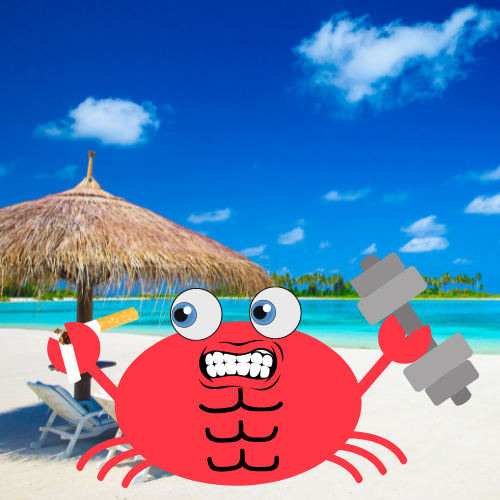
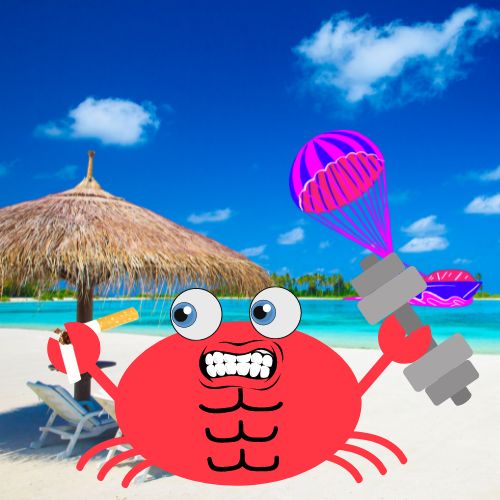
updated assets and implemented timer, enaenabled mint functionality onClick

Changed region(s): [[0.57, 0.24, 0.81, 0.51], [0.81, 0.54, 0.96, 0.63], [0.69, 0.57, 0.72, 0.6]]

diff --git a/app/src/CandyMachine/index.js b/app/src/CandyMachine/index.js
@@ -1,9 +1,10 @@
-import React from 'react';
+import React, { useEffect, useState } from 'react';
 import { Connection, PublicKey } from '@solana/web3.js';
 import { Program, Provider, web3 } from '@project-serum/anchor';
 import { MintLayout, TOKEN_PROGRAM_ID, Token } from '@solana/spl-token';
 import { sendTransactions } from './connection';
 import './CandyMachine.css';
+import CountdownTimer  from '../CountdownTimer'
 import {
   candyMachineProgram,
   TOKEN_METADATA_PROGRAM_ID,
@@ -20,6 +21,100 @@ const opts = {
 };
 
 const CandyMachine = ({ walletAddress }) => {
+  const [candyMachine, setCandyMachine] = useState(null);
+  useEffect(() => {
+    getCandyMachineState();
+  });
+  
+
+  const getProvider = () => {
+    const rpcHost = process.env.REACT_APP_SOLANA_RPC_HOST;
+    // Create a new connection object
+    const connection = new Connection(rpcHost);
+  
+    // Create a new Solana provider object
+    const provider = new Provider(
+      connection,
+      window.solana,
+      opts.preflightCommitment
+    );
+  
+    return provider;
+  };
+  
+  const getCandyMachineState = async () => {
+    const provider = getProvider();
+  
+    // Get metadata about deployed candy machine program
+    const idl = await Program.fetchIdl(candyMachineProgram, provider);  
+  
+    // Create a program that you can call
+    const program = new Program(idl, candyMachineProgram, provider);
+  
+    // Fetch the metadata from your candy machine
+    const candyMachine = await program.account.candyMachine.fetch(
+      process.env.REACT_APP_CANDY_MACHINE_ID
+    );
+  
+    // Parse out all our metadata and log it out
+    const itemsAvailable = candyMachine.data.itemsAvailable.toNumber();
+    const itemsRedeemed = candyMachine.itemsRedeemed.toNumber();
+    const itemsRemaining = itemsAvailable - itemsRedeemed;
+    const goLiveData = candyMachine.data.goLiveDate.toNumber();
+    const presale = 
+      candyMachine.data.whitelistMintSettings &&
+      candyMachine.data.whitelistMintSettings.presale &&
+      (!candyMachine.data.goLiveDate ||
+        candyMachine.data.goLiveDate.toNumber() > new Date().getTime() / 1000);
+  
+    // fix later
+    const goLiveDateTimeString = `${new Date(
+      goLiveData * 1000
+    ).toLocaleDateString()} @ ${new Date(
+      goLiveData * 1000
+    ).toLocaleTimeString()}`
+      
+    // Add this data to your state to render
+    setCandyMachine({
+      id: process.env.REACT_APP_CANDY_MACHINE_ID,
+      program,
+      state: {
+        itemsAvailable,
+        itemsRedeemed,
+        itemsRemaining,
+        goLiveData,
+        goLiveDateTimeString,
+        isSoldOut: itemsRemaining === 0,
+        isActive:
+          (presale ||
+            candyMachine.data.goLiveDate.toNumber() < new Date().getTime() / 1000) &&
+          (candyMachine.endSettings
+            ? candyMachine.endSettings.endSettingType.date
+              ? candyMachine.endSettings.number.toNumber() > new Date().getTime() / 1000
+              : itemsRedeemed < candyMachine.endSettings.number.toNumber()
+            : true),
+        isPresale: presale,
+        goLiveDate: candyMachine.data.goLiveDate,
+        treasury: candyMachine.wallet,
+        tokenMint: candyMachine.tokenMint,
+        gatekeeper: candyMachine.data.gatekeeper,
+        endSettings: candyMachine.data.endSettings,
+        whitelistMintSettings: candyMachine.data.whitelistMintSettings,
+        hiddenSettings: candyMachine.data.hiddenSettings,
+        price: candyMachine.data.price,
+      },
+    });
+
+    // console.log({
+    //   itemsAvailable,
+    //   itemsRedeemed,
+    //   itemsRemaining,
+    //   goLiveData,
+    //   goLiveDateTimeString,
+    //   presale,
+    //   mintToken
+    // });
+  };
 
   const getCandyMachineCreator = async (candyMachine) => {
     const candyMachineID = new PublicKey(candyMachine);
@@ -297,14 +392,35 @@ const CandyMachine = ({ walletAddress }) => {
     return [];
   };
 
+  const renderDropTimer = () => {
+    const currentDate = new Date();
+    const dropDate = new Date(candyMachine.state.goLiveData * 1000);
+
+    if (currentDate < dropDate) {
+      console.log('Before drop date!');
+      return <CountdownTimer dropDate={dropDate} />;
+    }
+    return <p>{`Drop Date: ${candyMachine.state.goLiveDateTimeString}`}</p>;
+  };
+
   return (
+  // Only show this if machineStats is available
+  candyMachine && (
     <div className="machine-container">
-      <p>Drop Date:</p>
-      <p>Items Minted:</p>
+      {renderDropTimer()}
+      <p>{`Drop Date: ${candyMachine.state.goLiveDateTimeString}`}</p>
+      <p>{`Items Minted: ${candyMachine.state.itemsRedeemed} / ${candyMachine.state.itemsAvailable}`}</p>
+      {candyMachine.state.itemsRedeemed === candyMachine.state.itemsAvailable ? (
+          <p className="sub-text">Sold Out 🙊</p>
+        ) : (
       <button className="cta-button mint-button" onClick={mintToken}>
-        Mint NFT
+          Mint NFT
       </button>
+      )}
+      {/* {mints.length > 0 && renderMintedItems()}
+      {isLoadingMints && <p>Loading Mints...</p>} */}
     </div>
+  )
   );
 };
 

diff --git a/app/src/CountdownTimer/index.js b/app/src/CountdownTimer/index.js
@@ -1,0 +1,53 @@
+import React, { useEffect, useState } from 'react';
+import './CountdownTimer.css';
+
+
+
+const CountdownTimer = ({ dropDate }) => {
+  // State
+  const [timerString, setTimerString] = useState('');
+
+  // Our useEffect will run on component load
+    useEffect(() => {
+    console.log('Setting interval...');
+  
+    // Use setInterval to run this piece of code every second
+    const interval = setInterval(() => {
+      const currentDate = new Date().getTime();
+      const distance = dropDate - currentDate;
+  
+      // Here it's as easy as doing some time math to get the different properties
+      const days = Math.floor(distance / (1000 * 60 * 60 * 24));
+      const hours = Math.floor(
+        (distance % (1000 * 60 * 60 * 24)) / (1000 * 60 * 60)
+      );
+      const minutes = Math.floor((distance % (1000 * 60 * 60)) / (1000 * 60));
+      const seconds = Math.floor((distance % (1000 * 60)) / 1000);
+  
+      // We have our desired output, set it in state!
+      setTimerString(`${days}d ${hours}h ${minutes}m ${seconds}s`);
+  
+      // If our distance passes zero this means that it's drop time!
+      if (distance < 0) {
+        console.log('Clearing interval...');
+        clearInterval(interval);
+      }
+    }, 1000);
+  
+    // Anytime our component unmounts let's clean up our interval
+    return () => {
+      if (interval) {
+        clearInterval(interval);
+      }
+    };
+  }, []);
+
+  return (
+    <div className="timer-container">
+      <p className="timer-header">Candy Drop Starting In</p>
+      {timerString && <p className="timer-value">{`⏰ ${timerString}`}</p>}
+    </div>
+  );
+};
+
+export default CountdownTimer;

diff --git a/app/src/App.js b/app/src/App.js
@@ -2,6 +2,7 @@ import './App.css';
 import twitterLogo from './assets/twitter-logo.svg';
 // STEP 5 SET WALLET DATA IN REACT STATE
 import React, { useEffect, useState } from 'react';
+import CandyMachine from './CandyMachine';
 
 // Constants
 const TWITTER_HANDLE = 'TopShotTurtles';
@@ -73,6 +74,8 @@ const App = () => {
           <p className="sub-text">NFT drop machine with fair mint</p>
           {!walletAddress && renderNotConnectedContainer()}
         </div>
+        {/* Check for walletAddress and then pass in walletAddress */}
+      {walletAddress && <CandyMachine walletAddress={window.solana} />}
         <div className="footer-container">
           <img alt="Twitter Logo" className="twitter-logo" src={twitterLogo} />
           <a
@@ -80,10 +83,10 @@ const App = () => {
             href={TWITTER_LINK}
             target="_blank"
             rel="noreferrer"
-          >{`built for @${TWITTER_HANDLE}`}</a>
+          >{`built on @${TWITTER_HANDLE}`}</a>
         </div>
       </div>
-    </div>
+    </div>  
   );
 };
 

diff --git a/app/src/App.css b/app/src/App.css
@@ -14,7 +14,8 @@
   padding: 0 30px 0 30px;
   color: white;
   position: relative;
-  /* background-color: #35aee2; */
+  background: radial-gradient(circle at bottom, navy 0, black 100%);
+  height: 100vh;
 }
 
 .authed-container {
@@ -25,7 +26,8 @@
 }
 
 .header-container {
-  /* background-color: #60c657; */
+  background-color: #5c0cb8;
+  opacity: .85;
 }
 
 .header {
@@ -79,7 +81,7 @@
   width: 100%;
   bottom: 0;
   left: 0;
-  /* padding-bottom: 45px; */
+  padding-bottom: 45px;
 }
 
 .twitter-logo {

diff --git a/app/src/index.js b/app/src/index.js
@@ -1,7 +1,9 @@
-import React from 'react';
+import React, { useEffect } from 'react';
 import ReactDOM from 'react-dom';
 import './index.css';
 import App from './App';
+import { Program } from '@project-serum/anchor';
+
 
 ReactDOM.render(
   <React.StrictMode>
